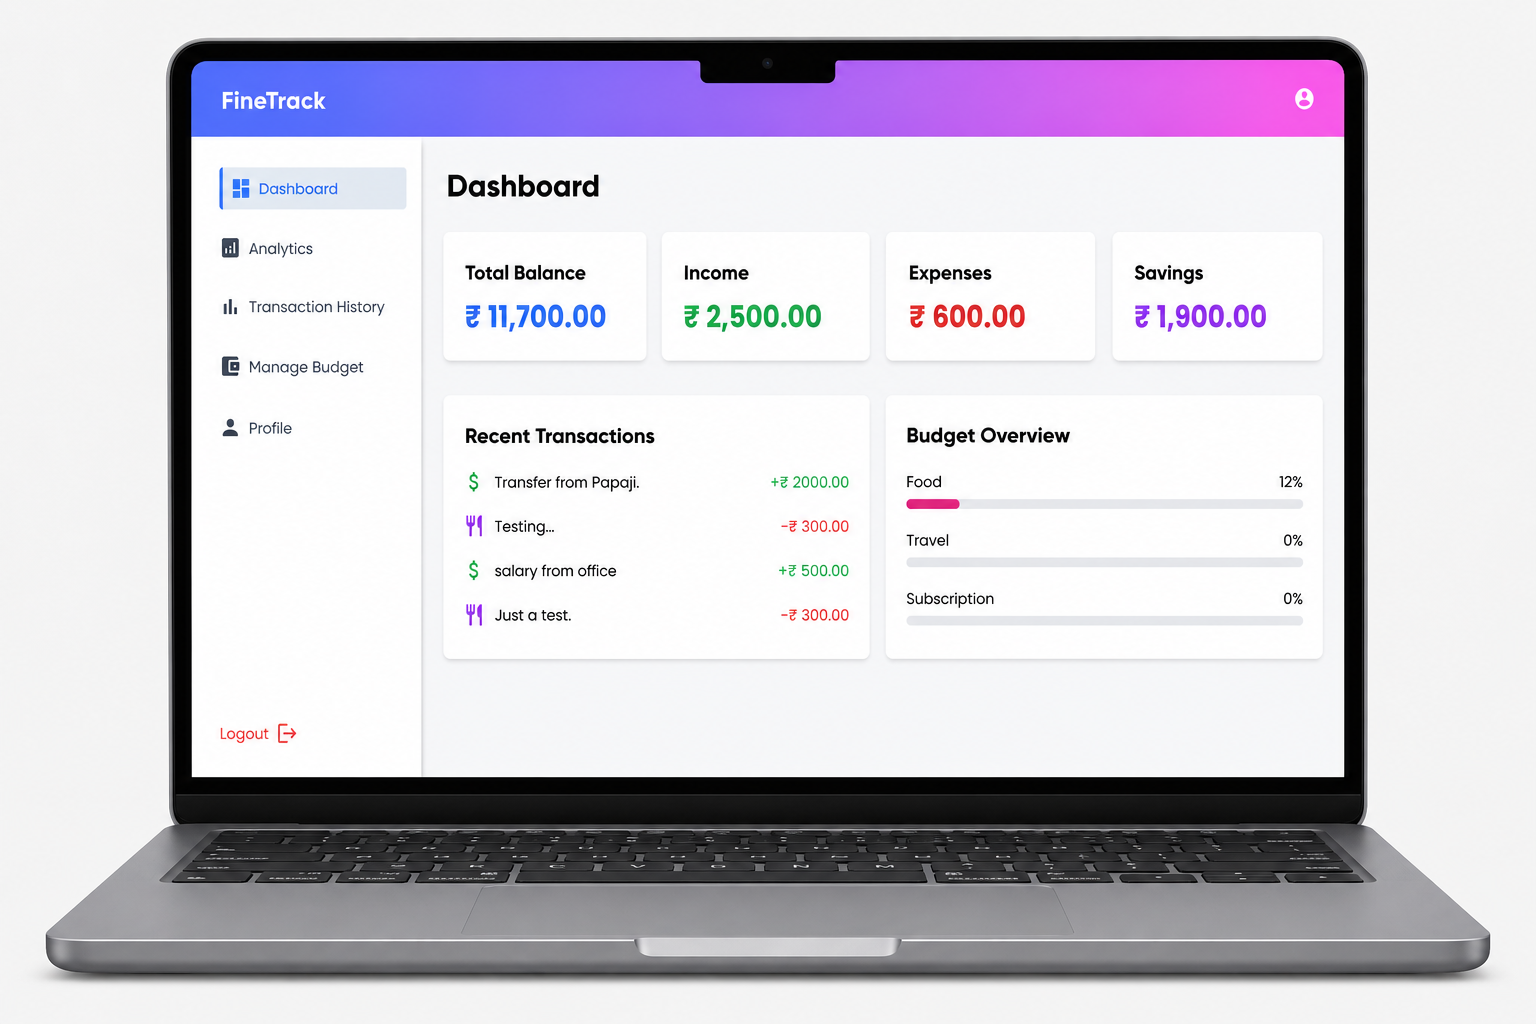
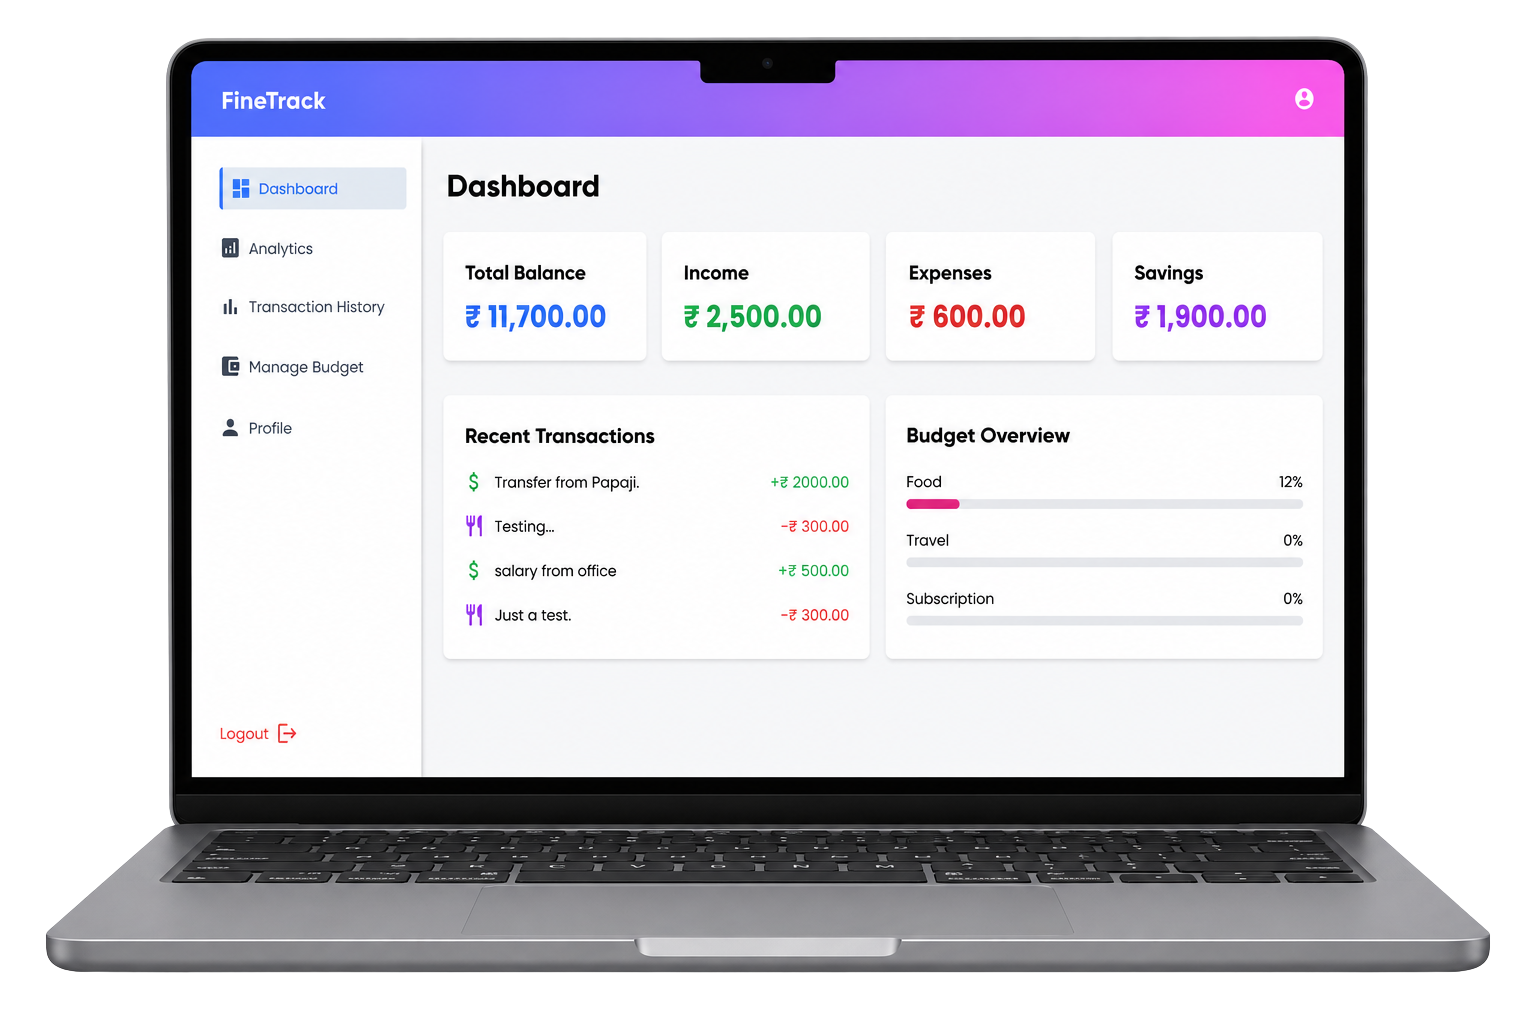
Changes :   [+] Updated the mockup.png   [+] Updated the index.html

Changed region(s): [[0.0312, 0.9375, 0.9688, 0.9688]]

diff --git a/index.html b/index.html
@@ -116,7 +116,7 @@
                 </div>
                 
                 <!-- Stats -->
-                <div class="flex items-center justify-center md:justify-start gap-8 sm:gap-12 border-t border-white/20 pt-8">
+                <!-- <div class="flex items-center justify-center md:justify-start gap-8 sm:gap-12 border-t border-white/20 pt-8">
                     <div>
                         <h4 class="text-3xl font-bold text-white">50K+</h4>
                         <p class="text-sm text-white/80 font-medium mt-1">Active users</p>
@@ -129,7 +129,7 @@
                         <h4 class="text-3xl font-bold text-white">4.9/5</h4>
                         <p class="text-sm text-white/80 font-medium mt-1">App rating</p>
                     </div>
-                </div>
+                </div> -->
             </div>
             
             <div class="w-full md:w-1/2 relative mt-10 md:mt-0" data-aos="fade-left">
@@ -137,7 +137,7 @@
                 <img src="/imgs/mockup.png" alt="Dashboard View" class="rounded-2xl shadow-2xl border border-white/20 w-full h-auto">
                 
                 <!-- Floating Card -->
-                <div class="absolute -bottom-8 -left-8 md:bottom-12 md:-left-12 bg-white p-5 rounded-2xl shadow-[0_8px_30px_rgb(0,0,0,0.12)] border border-gray-50 min-w-[220px] animate-bounce-slow text-gray-800">
+                <!-- <div class="absolute -bottom-8 -left-8 md:bottom-12 md:-left-12 bg-white p-5 rounded-2xl shadow-[0_8px_30px_rgb(0,0,0,0.12)] border border-gray-50 min-w-[220px] animate-bounce-slow text-gray-800">
                     <div class="flex items-center gap-4">
                         <div class="w-12 h-12 bg-blue-100 rounded-full flex items-center justify-center">
                             <span class="material-icons text-brandBlue">trending_up</span>
@@ -147,7 +147,7 @@
                             <p class="text-xl font-bold text-gray-900">+18.2%</p>
                         </div>
                     </div>
-                </div>
+                </div> -->
             </div>
             
         </div>

diff --git a/vendor/composer/installed.php b/vendor/composer/installed.php
@@ -3,7 +3,7 @@
         'name' => '__root__',
         'pretty_version' => 'dev-main',
         'version' => 'dev-main',
-        'reference' => '5cb8f4e0d01aa9db87c85e3645e399ecb0a67e22',
+        'reference' => '523b09e8e8c5ec12b11e7358412885888970c772',
         'type' => 'library',
         'install_path' => __DIR__ . '/../../',
         'aliases' => array(),
@@ -13,7 +13,7 @@
         '__root__' => array(
             'pretty_version' => 'dev-main',
             'version' => 'dev-main',
-            'reference' => '5cb8f4e0d01aa9db87c85e3645e399ecb0a67e22',
+            'reference' => '523b09e8e8c5ec12b11e7358412885888970c772',
             'type' => 'library',
             'install_path' => __DIR__ . '/../../',
             'aliases' => array(),